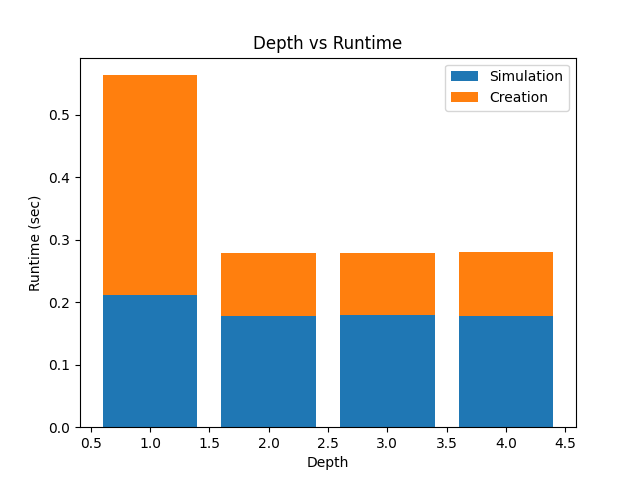
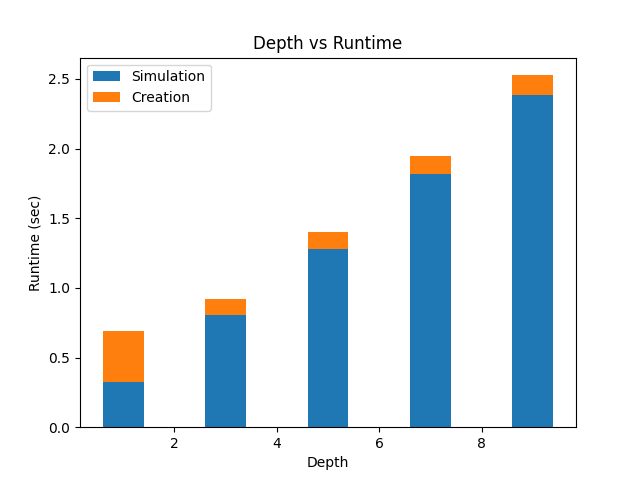
Plotted bond evolution

diff --git a/src/benchmarking.py b/src/benchmarking.py
@@ -4,6 +4,7 @@ import cmath
 import time
 import sys
 import numpy as np
+import torch
 
 from qiskit import QuantumCircuit, QuantumRegister
 import ffsim
@@ -22,6 +23,7 @@ import quimb.tensor as qtn
 from cirq.contrib.qasm_import import circuit_from_qasm
 
 import matplotlib.pyplot as plt
+from typing import Optional
 
 
 def generate_hchain_geometry(natoms: int, atomic_distance: float = 0.7) -> str:
@@ -190,7 +192,7 @@ def gen_circ(natoms, depth):
     ucj_op = ffsim.UCJOpSpinBalanced.from_t_amplitudes(
         t2=np.asfortranarray(cc_.t2),
         t1=np.asfortranarray(cc_.t1),
-        n_reps=2,
+        n_reps=n_reps, # n_reps=2
         interaction_pairs=(pairs_aa, pairs_ab),
         optimize=False
     )
@@ -240,34 +242,90 @@ def simulate_cpu(circuit: cirq.Circuit, dtype: str = "float64", verbose: bool = 
     return mps
 
 
+def simulate(
+    circuit: cirq.Circuit,
+    verbose: bool = True,
+    seed: Optional[int] = None,
+    backend: str = "cpu",
+    max_bond: Optional[int] = None,
+    cutoff: float = 1e-10,
+):
+    rng = np.random.RandomState(seed)
+    max_bonds = []
+
+    qubits_to_indices = {q: i for i, q in enumerate(sorted(circuit.all_qubits()))}
+    nqubits = len(qubits_to_indices)
+
+    mps = qtn.MPS_computational_state("0" * nqubits, dtype="float64", cyclic=False)
+
+    if backend == "gpu":
+        for tensor in mps.tensors:
+            tensor.modify(
+                apply=lambda x: torch.tensor(x, dtype=torch.complex64, device="cuda")
+            )
+
+    num_ops = len(list(circuit.all_operations()))
+    for i, op in enumerate(circuit.all_operations()):
+        qubit_indices = [qubits_to_indices[q] for q in op.qubits]
+        if cirq.has_unitary(op):
+            to_apply = qu.qarray(cirq.unitary(op))
+        elif cirq.has_mixture(op):
+            ps = []
+            ops = []
+            for (p, o) in cirq.mixture(op):
+                ps.append(p)
+                ops.append(o)
+            op = ops[rng.choice(range(len(ops)), p=ps)]
+            to_apply = qu.qarray(op)
+        else:
+            raise ValueError(f"Cannot apply operation {op}")
+
+        if backend == "gpu":
+            to_apply = torch.tensor(to_apply, dtype=torch.complex64, device="cuda")
+
+        mps.gate_(
+            to_apply,
+            qubit_indices,
+            contract="swap+split",
+            max_bond=max_bond,
+            cutoff=cutoff,
+        )
+        mps.compress()
+        max_bonds.append(mps.bond_sizes())
+        if verbose:
+            print(f"\rOp {i + 1} / {num_ops}, max bond = {mps.max_bond()}", end="")
+
+    return mps, max_bonds
+
+
 def benchmark(num_atoms, depth):
     c_start = time.perf_counter()
     circuit = gen_circ(num_atoms, depth)
     c_end = time.perf_counter()
 
     s_start = time.perf_counter()
-    mps = simulate_cpu(circuit)
+    mps, bond_data = simulate(circuit)
     s_end = time.perf_counter()
 
     create_time = c_end - c_start
     simulate_time = s_end - s_start
 
-    return create_time, simulate_time
+    return create_time, simulate_time, bond_data
 
 
 def benchmark_atoms():
     create_times = []
     simulate_times = []
+    bonds = []
 
     nums = range(2,11,2)
 
-    with open("bench_atoms.txt", "w") as file:
-        for n in nums:
-            crt, sit = benchmark(n, 1)
-            create_times.append(crt)
-            simulate_times.append(sit)
-            file.write(f"# Atoms: {n}\t\tCreate Time: {crt:.6f}\t\tSimulate Time: {sit:.6f}\n")
-            print(f"\n# Atoms: {n}\t\tCreate Time: {crt:.6f}\t\tSimulate Time: {sit:.6f}\n")
+    for n in nums:
+        crt, sit, bond_data = benchmark(n, 1)
+        create_times.append(crt)
+        simulate_times.append(sit)
+        bonds.append({"n_atoms":n, "data":bond_data})
+        print(f"\n# Atoms: {n}\t\tCreate Time: {crt:.6f}\t\tSimulate Time: {sit:.6f}\n")
 
     plt.bar(nums, simulate_times, label="Simulation")
     plt.bar(nums, create_times, bottom=simulate_times, label="Creation")
@@ -279,20 +337,90 @@ def benchmark_atoms():
 
     plt.savefig("bench_atoms_plot.png")
 
+    plt.clf()
+
+    for entry in bonds:
+
+        n_atoms = entry["n_atoms"]
+        atom_data = entry["data"]
+
+        max_per_gate = []
+
+        for gate_dict in atom_data:
+            max_per_gate.append(max(gate_dict))
+
+        max_per_gate = np.array(max_per_gate)
+        x = np.arange(len(max_per_gate))
+
+        plt.plot(
+            x,
+            max_per_gate,
+            linewidth=2,
+            label=f"{n_atoms} atoms"
+        )
+
+    plt.xlabel("Gate #")
+    plt.ylabel("Max bond")
+    plt.title("Max Bond Evolution")
+    plt.legend()
+
+    plt.savefig("bench_atoms_bonds_plot.png")
+
+    plt.clf()
+
+    plt.figure(figsize=(10, 6))
+
+    for entry in reversed(bonds):
+
+        n_atoms = entry["n_atoms"]
+        atom_data = entry["data"]
+
+        means = []
+        stds = []
+
+        for gate_dict in atom_data:
+
+            values = np.array(list(gate_dict))
+
+            means.append(values.mean())
+            stds.append(values.std())
+
+        means = np.array(means)
+        stds = np.array(stds)
+
+        x = np.arange(len(means))
+
+        plt.errorbar(
+            x,
+            means,
+            yerr=stds,
+            capsize=3,
+            linewidth=1.5,
+            label=f"{n_atoms} atoms"
+        )
+
+    plt.xlabel("Gate #")
+    plt.ylabel("Mean bond dimension ± std")
+    plt.title("Bond Dimension Growth")
+    plt.legend()
+    plt.grid(alpha=0.3)
+    plt.tight_layout()
+    plt.savefig("bond_vs_atoms.png")
+
 
 def benchmark_depth():
     create_times = []
     simulate_times = []
+    bonds = []
 
-    nums = range(1,5)
+    nums = range(1,11,2)
 
-    with open("bench_depth.txt", "w") as file:
-        for n in nums:
-            crt, sit = benchmark(6, n) # eventually fix atoms at ~30
-            create_times.append(crt)
-            simulate_times.append(sit)
-            file.write(f"Depth: {n}\t\tCreate Time: {crt:.6f}\t\tSimulate Time: {sit:.6f}\n")
-            print(f"\nDepth: {n}\t\tCreate Time: {crt:.6f}\t\tSimulate Time: {sit:.6f}\n")
+    for n in nums:
+        crt, sit, bond_data = benchmark(6, n) # eventually fix atoms at ~30
+        create_times.append(crt)
+        simulate_times.append(sit)
+        bonds.append({"depth":n, "data":bond_data})
+        print(f"\nDepth: {n}\t\tCreate Time: {crt:.6f}\t\tSimulate Time: {sit:.6f}\n")
 
     plt.bar(nums, simulate_times, label="Simulation")
     plt.bar(nums, create_times, bottom=simulate_times, label="Creation")
@@ -303,6 +431,76 @@ def benchmark_depth():
     plt.legend()
 
     plt.savefig("bench_depth_plot.png")
+
+    plt.clf()
+
+    for entry in bonds:
+
+        depth = entry["depth"]
+        depth_data = entry["data"]
+
+        max_per_gate = []
+
+        for gate_dict in depth_data:
+            max_per_gate.append(max(gate_dict))
+
+        max_per_gate = np.array(max_per_gate)
+        x = np.arange(len(max_per_gate))
+
+        plt.plot(
+            x,
+            max_per_gate,
+            linewidth=2,
+            label=f"Depth {depth}"
+        )
+
+    plt.xlabel("Gate #")
+    plt.ylabel("Max bond")
+    plt.title("Max Bond Evolution")
+    plt.legend()
+
+    plt.savefig("bench_depth_bonds_plot.png")
+
+    plt.clf()
+
+    plt.figure(figsize=(10, 6))
+
+    for entry in reversed(bonds):
+
+        depth = entry["depth"]
+        depth_data = entry["data"]
+
+        means = []
+        stds = []
+
+        for gate_dict in depth_data:
+
+            values = np.array(list(gate_dict))
+
+            means.append(values.mean())
+            stds.append(values.std())
+
+        means = np.array(means)
+        stds = np.array(stds)
+
+        x = np.arange(len(means))
+
+        plt.errorbar(
+            x,
+            means,
+            yerr=stds,
+            capsize=3,
+            linewidth=1.5,
+            label=f"Depth {depth}"
+        )
+
+    plt.xlabel("Gate #")
+    plt.ylabel("Mean bond dimension ± std")
+    plt.title("Bond Dimension Growth")
+    plt.legend()
+    plt.grid(alpha=0.3)
+    plt.tight_layout()
+    plt.savefig("bond_vs_depth.png")
 
 
 if __name__ == "__main__":